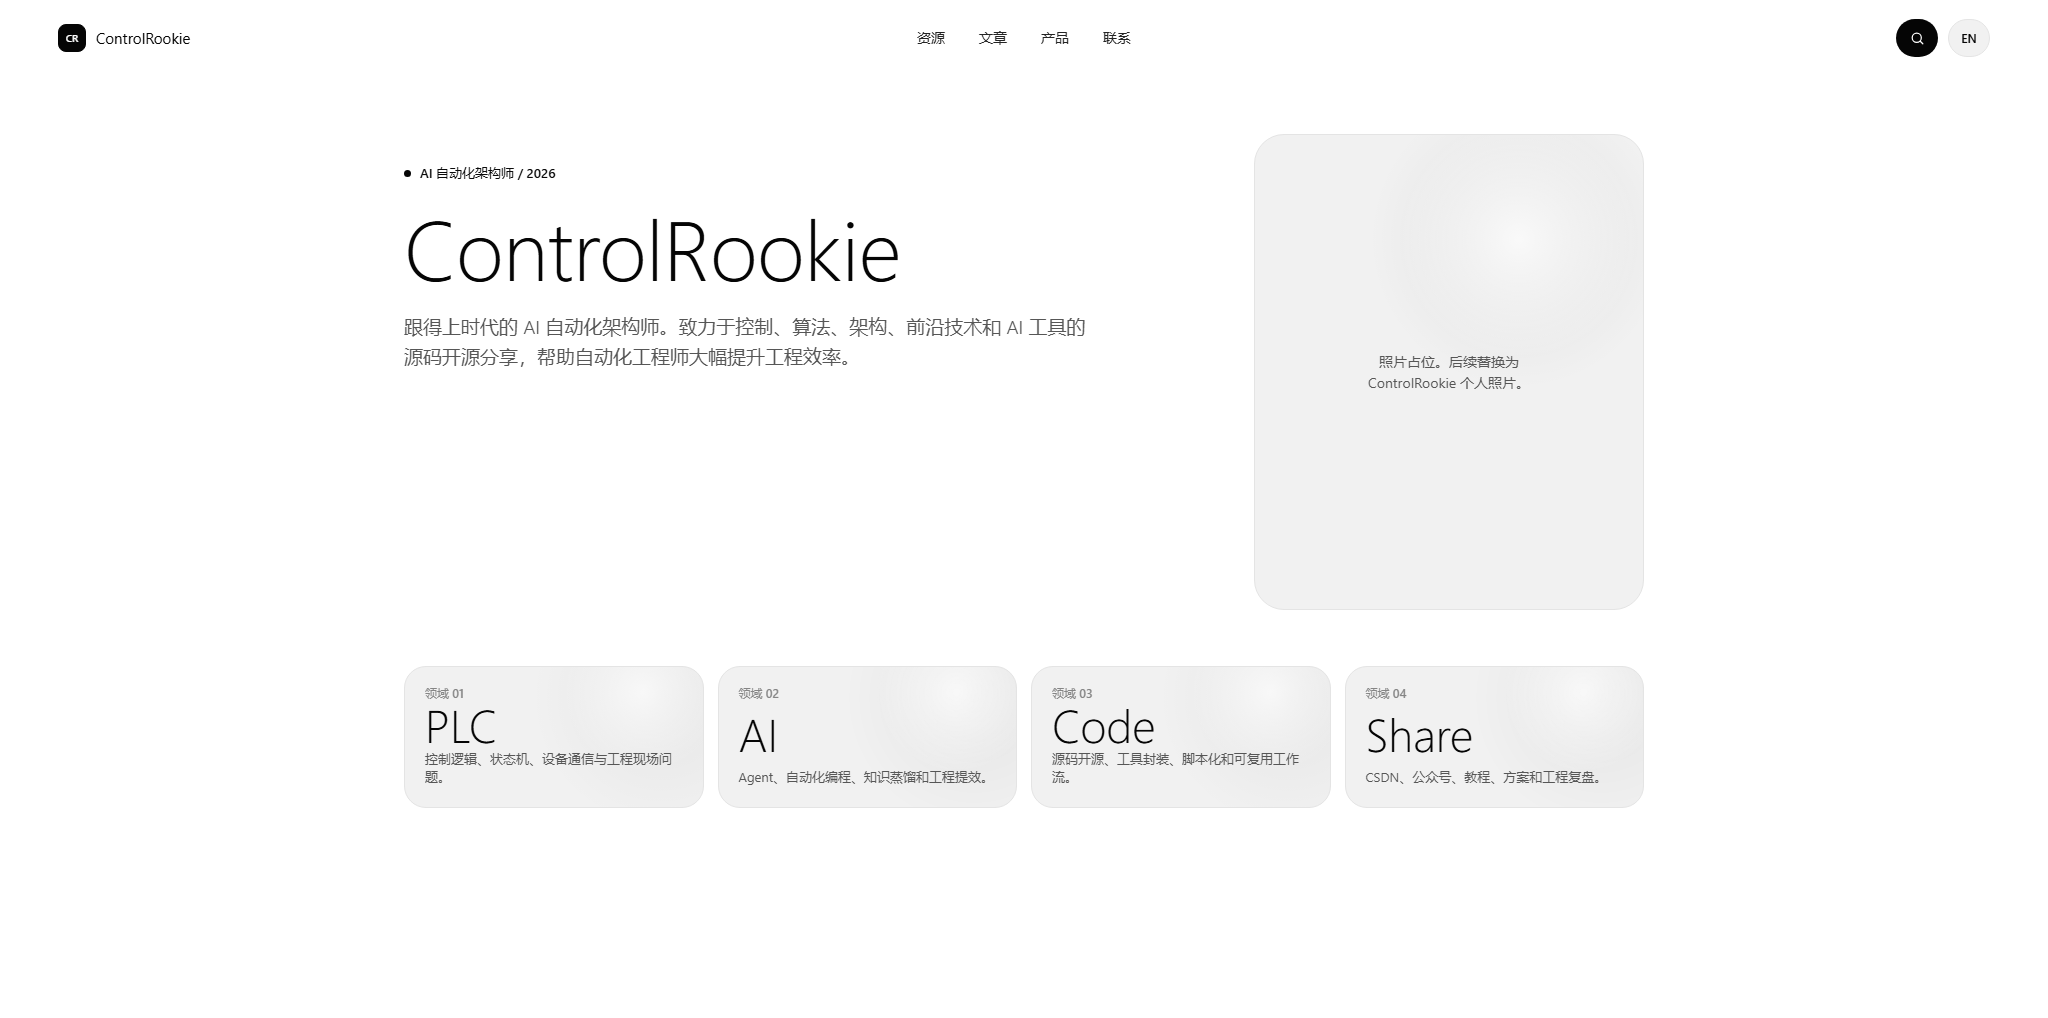
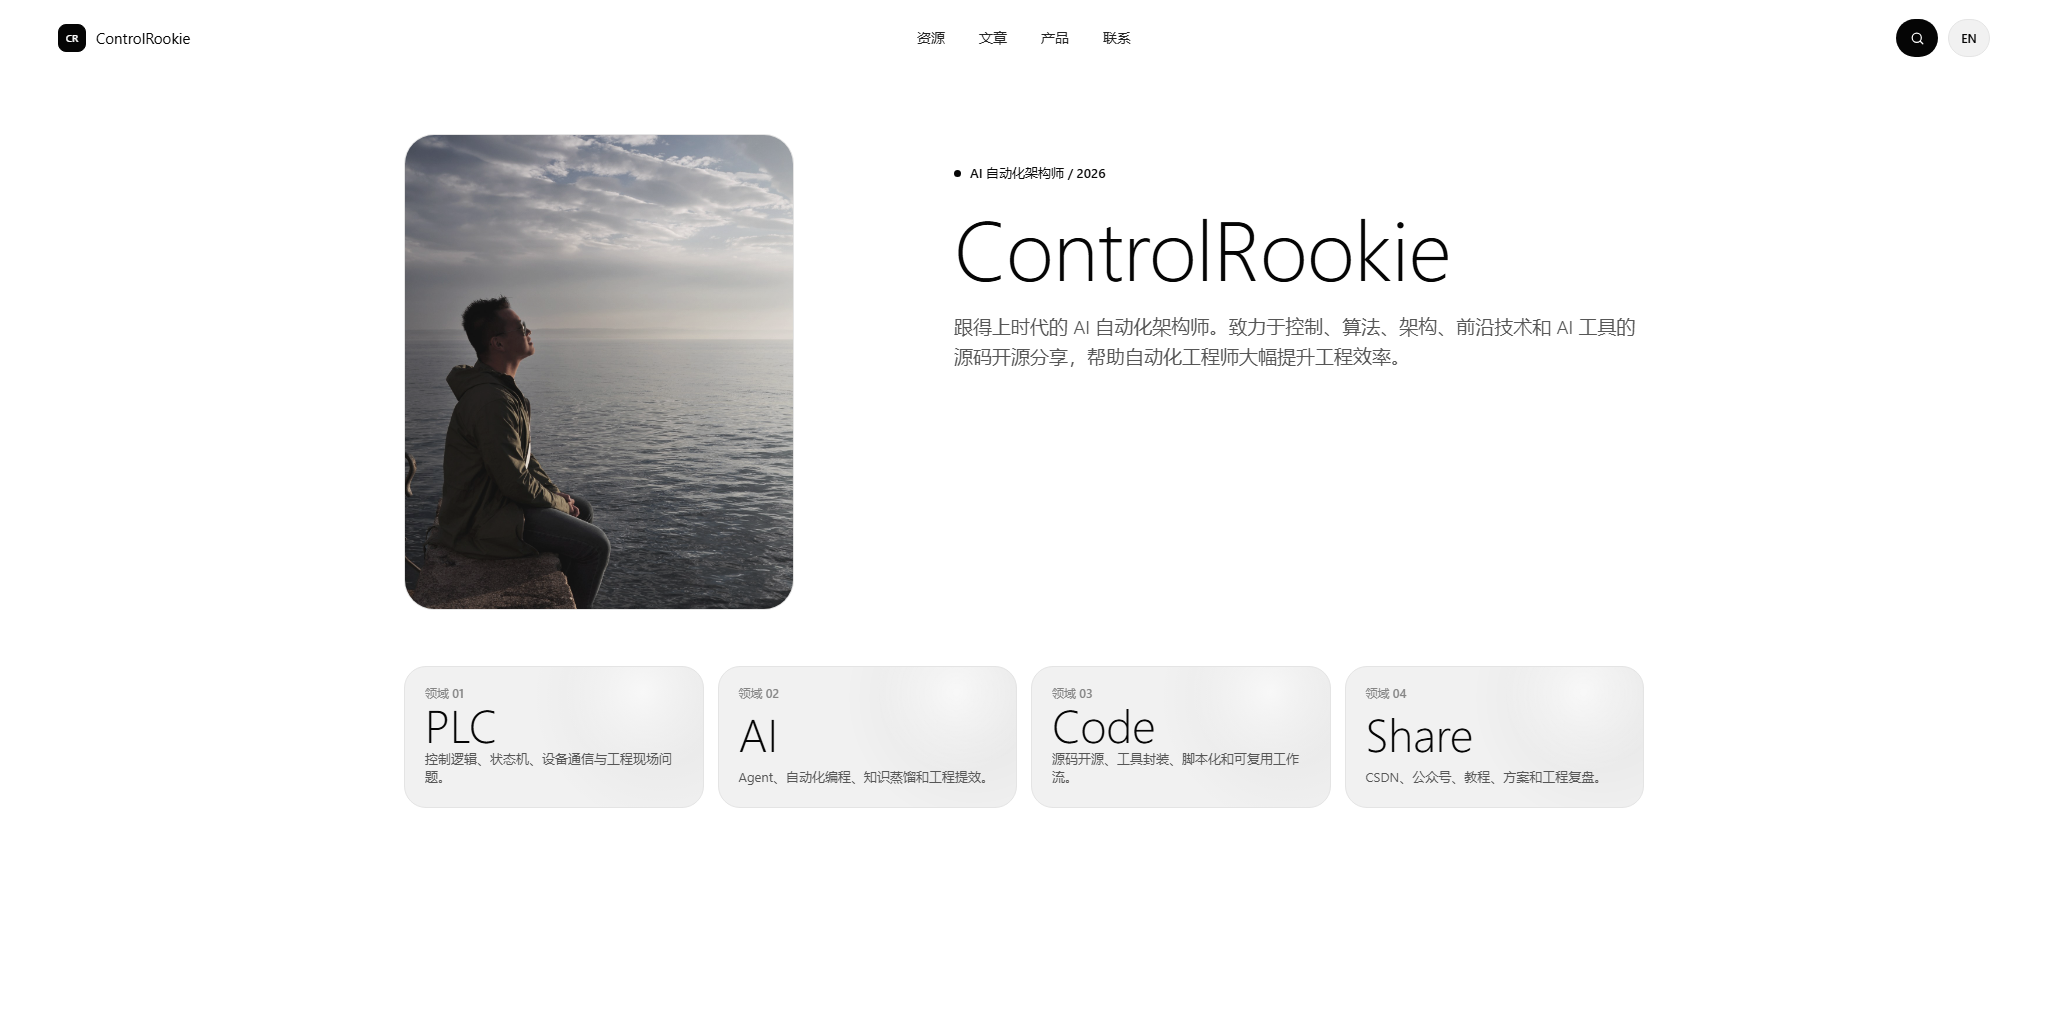
feat: 接入个人照片与联系二维码

Changed region(s): [[0.1875, 0.1218, 0.8125, 0.609], [0.4688, 0.2132, 0.7188, 0.2741], [0.4688, 0.1523, 0.5312, 0.1827]]

diff --git a/prototypes/homepage-open-design/index.html b/prototypes/homepage-open-design/index.html
@@ -295,7 +295,7 @@
       width: min(100%, 1240px);
       margin: 0 auto;
       display: grid;
-      grid-template-columns: minmax(0, 0.96fr) minmax(360px, 0.64fr);
+      grid-template-columns: minmax(360px, 0.64fr) minmax(0, 0.96fr);
       grid-template-rows: auto 1fr;
       gap: clamp(22px, 3.4vw, 54px);
       align-items: start;
@@ -303,6 +303,7 @@
 
     .hero-copy {
       padding-top: 32px;
+      justify-self: end;
     }
 
     .kicker {
@@ -349,11 +350,10 @@
     }
 
     .portrait-frame {
-      justify-self: end;
+      justify-self: start;
       width: min(100%, 390px);
       aspect-ratio: 0.82;
       display: grid;
-      place-items: center;
       overflow: hidden;
       border: 1px solid var(--line);
       border-radius: 30px;
@@ -364,20 +364,13 @@
       color: var(--muted);
     }
 
-    .portrait-placeholder {
+    .portrait-image {
       width: 100%;
       height: 100%;
-      display: grid;
-      place-items: center;
-      padding: 30px;
-      text-align: center;
-    }
-
-    .portrait-placeholder span {
-      max-width: 210px;
-      color: var(--muted);
-      font-size: 14px;
-      line-height: 1.5;
+      object-fit: cover;
+      object-position: 31% 50%;
+      filter: saturate(0.72) contrast(0.96) brightness(1.03);
+      mix-blend-mode: multiply;
     }
 
     .focus-strip {
@@ -484,6 +477,10 @@
 
     .product-grid {
       grid-template-columns: repeat(3, minmax(0, 1fr));
+    }
+
+    .article-grid-single {
+      grid-template-columns: minmax(0, 0.72fr);
     }
 
     .product-grid-single {
@@ -648,7 +645,7 @@
 
     .contact-shell {
       display: grid;
-      grid-template-columns: minmax(0, 0.92fr) minmax(0, 1.08fr);
+      grid-template-columns: minmax(280px, 0.56fr) minmax(0, 1.44fr);
       gap: 14px;
       align-items: stretch;
     }
@@ -664,8 +661,8 @@
     }
 
     .contact-lead {
-      min-height: 388px;
-      padding: clamp(28px, 4vw, 48px);
+      min-height: 454px;
+      padding: clamp(26px, 3.3vw, 40px);
       display: flex;
       flex-direction: column;
       justify-content: space-between;
@@ -674,9 +671,9 @@
     .contact-lead h2 {
       margin: 0;
       color: #050505;
-      font-size: clamp(42px, 5vw, 72px);
+      font-size: clamp(30px, 3.2vw, 48px);
       font-weight: 250;
-      line-height: 0.98;
+      line-height: 1.04;
       letter-spacing: 0;
       text-wrap: balance;
     }
@@ -696,7 +693,7 @@
     }
 
     .contact-card {
-      min-height: 187px;
+      min-height: 220px;
       padding: 24px;
       display: flex;
       flex-direction: column;
@@ -735,20 +732,14 @@
     }
 
     .qr-slot {
-      width: 92px;
+      width: min(100%, 168px);
       aspect-ratio: 1;
-      display: grid;
-      place-items: center;
       border: 1px solid var(--line-strong);
       border-radius: 18px;
-      background:
-        linear-gradient(90deg, rgba(0,0,0,0.08) 1px, transparent 1px),
-        linear-gradient(180deg, rgba(0,0,0,0.08) 1px, transparent 1px),
-        #fff;
-      background-size: 12px 12px;
-      color: var(--muted);
-      font-size: 12px;
-      font-weight: 520;
+      padding: 10px;
+      background: #fff;
+      object-fit: contain;
+      align-self: flex-start;
     }
 
     .footer {
@@ -802,6 +793,10 @@
       .portrait-frame {
         justify-self: center;
         width: min(100%, 360px);
+      }
+
+      .hero-copy {
+        justify-self: start;
       }
 
       .focus-strip,
@@ -874,6 +869,7 @@
         grid-template-columns: 1fr;
       }
 
+      .article-grid-single,
       .product-grid-single {
         grid-template-columns: 1fr;
       }
@@ -940,16 +936,14 @@
     <main id="top">
       <section class="hero" aria-label="ControlRookie introduction">
         <div class="hero-inner">
+          <div class="portrait-frame" aria-label="ControlRookie portrait placeholder">
+            <img class="portrait-image" src="../../public/assets/images/brand/controlrookie-portrait.jpg" alt="ControlRookie portrait">
+          </div>
+
           <div class="hero-copy">
             <p class="kicker" data-i18n="hero.kicker">AI 自动化架构师 / 2026</p>
             <h1>ControlRookie</h1>
             <p class="subtitle" data-i18n="hero.subtitle">跟得上时代的 AI 自动化架构师。致力于控制、算法、架构、前沿技术和 AI 工具的源码开源分享，帮助自动化工程师大幅提升工程效率。</p>
-          </div>
-
-          <div class="portrait-frame" aria-label="ControlRookie portrait placeholder">
-            <div class="portrait-placeholder">
-              <span data-i18n="hero.portrait">照片占位。后续替换为 ControlRookie 个人照片。</span>
-            </div>
           </div>
 
           <div class="focus-strip" aria-label="Core domains">
@@ -999,11 +993,8 @@
           <p class="eyebrow" id="articles-title" data-i18n="articles.title">文章</p>
           <p class="section-copy" data-i18n="articles.copy">CSDN 已发布完整 CODESYS MQTT 系列；官网长期建议做主站文章，CSDN 和公众号负责分发引流。</p>
         </div>
-        <div class="article-grid">
+        <div class="article-grid article-grid-single">
           <a class="info-card" href="https://blog.csdn.net/weixin_44442562/category_13163069.html" target="_blank" rel="noreferrer"><div><small>CSDN Series</small><h3 data-i18n="article.1.title">CODESYS MQTT 系列</h3><p data-i18n="article.1.copy">已发布服务器、客户端、Broker、主题通信和排障教程，先跳转 CSDN 分类页。</p></div><footer>01 / CSDN MQTT</footer></a>
-          <article class="info-card"><div><small>Official Site</small><h3 data-i18n="article.2.title">官网原创文章</h3><p data-i18n="article.2.copy">长期建议把完整文章发布在官网，沉淀 SEO、搜索和产品转化。</p></div><footer>02 / Future CMS</footer></article>
-          <article class="info-card"><div><small>Distribution</small><h3 data-i18n="article.3.title">CSDN 与公众号分发</h3><p data-i18n="article.3.copy">CSDN 和公众号保留摘要、系列导航和外链，引流回官网专题。</p></div><footer>03 / Traffic</footer></article>
-          <article class="info-card"><div><small>Affiliate</small><h3 data-i18n="article.4.title">分账链接策略</h3><p data-i18n="article.4.copy">分账链接适合工具、云服务、课程资源推荐，不建议作为技术文章主承载。</p></div><footer>04 / Revenue</footer></article>
         </div>
       </section>
 
@@ -1031,8 +1022,8 @@
             <p class="eyebrow">ControlRookie / AI Automation Architect</p>
           </div>
           <div class="contact-grid" aria-label="Contact channels">
-            <article class="contact-card qr-card"><small>WeChat</small><strong>PeaceAndBless</strong><span data-i18n="contact.wechat">个人微信，二维码素材待替换。</span><div class="qr-slot" aria-label="WeChat QR placeholder">QR</div></article>
-            <article class="contact-card qr-card"><small>Official Account</small><strong>ControlRookie</strong><span data-i18n="contact.official">微信公众号，二维码素材待替换。</span><div class="qr-slot" aria-label="Official account QR placeholder">QR</div></article>
+            <article class="contact-card qr-card"><small>WeChat</small><strong>PeaceAndBless</strong><span data-i18n="contact.wechat">个人微信，扫码添加好友。</span><img class="qr-slot" src="../../public/assets/images/contact/wechat-peaceandbless-qr.jpg" alt="PeaceAndBless WeChat QR code"></article>
+            <article class="contact-card qr-card"><small>Official Account</small><strong>ControlRookie</strong><span data-i18n="contact.official">微信公众号，扫码关注。</span><img class="qr-slot" src="../../public/assets/images/contact/wechat-official-account-controlrookie-qr.jpg" alt="ControlRookie official account QR code"></article>
             <a class="contact-card" href="mailto:[email redacted]"><small>Email</small><strong>[email redacted]</strong><span data-i18n="contact.email">合作咨询、工具试用和工程化协作。</span></a>
             <a class="contact-card" href="https://blog.csdn.net/weixin_44442562?type=blog" target="_blank" rel="noreferrer"><small>CSDN</small><strong>ControlRookie 技术博客</strong><span data-i18n="contact.csdn">文章、教程、工程复盘和源码实践。</span></a>
           </div>
@@ -1063,7 +1054,6 @@
         "search.placeholder": "搜索文章、资源、产品",
         "hero.kicker": "AI 自动化架构师 / 2026",
         "hero.subtitle": "跟得上时代的 AI 自动化架构师。致力于控制、算法、架构、前沿技术和 AI 工具的源码开源分享，帮助自动化工程师大幅提升工程效率。",
-        "hero.portrait": "照片占位。后续替换为 ControlRookie 个人照片。",
         "focus.1.kicker": "领域 01",
         "focus.1.copy": "控制逻辑、状态机、设备通信与工程现场问题。",
         "focus.2.kicker": "领域 02",
@@ -1099,15 +1089,9 @@
         "resource.8.title": "工程资料库",
         "resource.8.copy": "手册、笔记、复盘和关键技术路线图。",
         "articles.title": "文章",
-        "articles.copy": "CSDN 已发布完整 CODESYS MQTT 系列；官网长期建议做主站文章，CSDN 和公众号负责分发引流。",
+        "articles.copy": "当前只保留已发布的 CODESYS MQTT 系列教程入口，其他文章模块暂不展示。",
         "article.1.title": "CODESYS MQTT 系列",
         "article.1.copy": "已发布服务器、客户端、Broker、主题通信和排障教程，先跳转 CSDN 分类页。",
-        "article.2.title": "官网原创文章",
-        "article.2.copy": "长期建议把完整文章发布在官网，沉淀 SEO、搜索和产品转化。",
-        "article.3.title": "CSDN 与公众号分发",
-        "article.3.copy": "CSDN 和公众号保留摘要、系列导航和外链，引流回官网专题。",
-        "article.4.title": "分账链接策略",
-        "article.4.copy": "分账链接适合工具、云服务、课程资源推荐，不建议作为技术文章主承载。",
         "products.title": "产品",
         "products.copy": "当前只展示 codesys-llm-synchronizer，其他产品先不放，后续成熟后再进入这里。",
         "product.1.copy": "面向 CODESYS / SmartControl 工程的 LLM 同步与协作工具，用于工程镜像、代码上下文、规则和自动化工作流衔接。",
@@ -1115,8 +1099,8 @@
         "contact.copy": "微信、邮箱、CSDN 和公众号入口先完整呈现，二维码图片后续替换为已保存的正式素材。",
         "contact.heading": "聊聊工程效率。",
         "contact.lead": "文章合作、工具试用、工程咨询、AI 自动化方案，可以通过微信、邮箱、CSDN 或公众号联系。",
-        "contact.wechat": "个人微信，二维码素材待替换。",
-        "contact.official": "微信公众号，二维码素材待替换。",
+        "contact.wechat": "个人微信，扫码添加好友。",
+        "contact.official": "微信公众号，扫码关注。",
         "contact.email": "合作咨询、工具试用和工程化协作。",
         "contact.csdn": "文章、教程、工程复盘和源码实践。",
         "footer.copy": "面向自动化工程师的 AI 自动化架构。",
@@ -1130,7 +1114,6 @@
         "search.placeholder": "Search articles, resources, products",
         "hero.kicker": "AI Automation Architect / 2026",
         "hero.subtitle": "An AI automation architect keeping pace with the era. ControlRookie shares source code, control ideas, algorithms, architecture, frontier technology, and AI tools to help automation engineers improve engineering efficiency.",
-        "hero.portrait": "Portrait placeholder. Replace with the ControlRookie portrait later.",
         "focus.1.kicker": "Domain 01",
         "focus.1.copy": "Control logic, state machines, device communication, and field issues.",
         "focus.2.kicker": "Domain 02",
@@ -1166,15 +1149,9 @@
         "resource.8.title": "Engineering Library",
         "resource.8.copy": "Manuals, notes, reviews, and technical roadmaps.",
         "articles.title": "Articles",
-        "articles.copy": "A complete CODESYS MQTT series is already published on CSDN. Long term, the official site should host full articles while CSDN and WeChat distribute and drive traffic.",
+        "articles.copy": "Only the published CODESYS MQTT tutorial series is shown for now. Other article modules stay hidden.",
         "article.1.title": "CODESYS MQTT Series",
         "article.1.copy": "Published tutorials cover server, client, broker, topic communication, and troubleshooting. Link to the CSDN category first.",
-        "article.2.title": "Official Articles",
-        "article.2.copy": "Long term, publish full articles on the official site to build SEO, search, and product conversion.",
-        "article.3.title": "CSDN & WeChat Distribution",
-        "article.3.copy": "Use CSDN and WeChat for summaries, series navigation, and links back to official topics.",
-        "article.4.title": "Affiliate Strategy",
-        "article.4.copy": "Affiliate links fit tools, cloud services, courses, and resource recommendations, not the main article host.",
         "products.title": "Products",
         "products.copy": "Only codesys-llm-synchronizer is shown for now. Other products stay hidden until mature.",
         "product.1.copy": "An LLM synchronization and collaboration tool for CODESYS / SmartControl projects, connecting project mirrors, code context, rules, and automation workflows.",
@@ -1182,8 +1159,8 @@
         "contact.copy": "WeChat, email, CSDN, and official account entries are shown first. QR images will be replaced with saved official assets later.",
         "contact.heading": "Talk engineering efficiency.",
         "contact.lead": "For article collaboration, tool trials, engineering consulting, or AI automation solutions, contact me via WeChat, email, CSDN, or the official account.",
-        "contact.wechat": "Personal WeChat. QR asset pending replacement.",
-        "contact.official": "Official WeChat account. QR asset pending replacement.",
+        "contact.wechat": "Personal WeChat. Scan to add.",
+        "contact.official": "Official WeChat account. Scan to follow.",
         "contact.email": "Collaboration, tool trials, and engineering work.",
         "contact.csdn": "Articles, tutorials, engineering reviews, and source code practice.",
         "footer.copy": "AI automation architecture for automation engineers.",
@@ -1224,7 +1201,7 @@
         : searchIndex.slice(0, 5);
 
       searchPanel.innerHTML = matches.length
-        ? matches.map((item, index) => `<a class="search-result${index === 0 ? " active" : ""}" href="${item.href}"><strong>${item.title[currentLang]}</strong><span>${item.type[currentLang]} · ${item.text[currentLang]}</span></a>`).join("")
+        ? matches.map((item, index) => `<a class="search-result${index === 0 ? " active" : ""}" href="${item.href}"><strong>${item.title[currentLang]}</strong><span>${item.type[currentLang]} / ${item.text[currentLang]}</span></a>`).join("")
         : `<div class="search-empty">${translations[currentLang]["search.empty"]}</div>`;
       searchPanel.classList.add("visible");
     }

diff --git a/docs/requirements/联系与素材需求.md b/docs/requirements/联系与素材需求.md
@@ -14,14 +14,17 @@
 - 个人微信二维码：微信号 `PeaceAndBless`
 - 微信公众号二维码：公众号 `ControlRookie`
 
-当前对话图片尚未在项目目录中形成可引用的原始图片文件。后续收到或导出原图后，统一保存到：
+二维码素材已保存到：
 
 ```text
-public/assets/images/contact/wechat-peaceandbless-qr.png
-public/assets/images/contact/wechat-official-account-controlrookie-qr.png
+public/assets/images/contact/wechat-peaceandbless-qr.jpg
+public/assets/images/contact/wechat-peaceandbless-qr-full.jpg
+public/assets/images/contact/wechat-official-account-controlrookie-qr.jpg
 ```
 
-保存后需要替换 `prototypes/homepage-open-design/index.html` 中 Contact 区域的二维码占位。
+`prototypes/homepage-open-design/index.html` 已接入以上两张二维码。Contact 页面必须保持二维码足够大，不能被标题或说明区域压缩。
+
+说明：`wechat-peaceandbless-qr.jpg` 是用于网页展示的正方形裁剪版，`wechat-peaceandbless-qr-full.jpg` 保留原始完整截图。
 
 ## Logo 素材
 
@@ -32,4 +35,26 @@ public/assets/images/brand/controlrookie-logo.svg
 public/assets/images/brand/controlrookie-logo.png
 ```
 
-正式 Logo 到位后替换导航 `.brand-logo`。
+Logo 素材已保存到：
+
+```text
+public/assets/images/brand/controlrookie-logo.png
+```
+
+当前导航仍使用克制 `CR` 占位，正式前端工程阶段再评估是否替换为完整 Logo 图。
+
+## 首页照片素材
+
+原始照片：
+
+```text
+E:\07 自媒体\03 资料\DSC_0366.jpg
+```
+
+网页优化图已保存到：
+
+```text
+public/assets/images/brand/controlrookie-portrait.jpg
+```
+
+因为照片中人脸朝右，首页布局使用左侧照片、右侧介绍文案。照片已做轻微降饱和和对比度收敛，以适配 ForAI 黑白灰底座。

diff --git a/项目规划与TODO.md b/项目规划与TODO.md
@@ -82,7 +82,7 @@ controlrookie-website/
 - [ ] 替换首页照片占位为个人照片，并验证构图、裁切和加载。
 - [ ] 将代表工程资产按真实项目梳理为作品墙卡片。
 - [ ] 将资源入口拆成源代码、库文件、标准、模板、MQTT 资料、自动化脚本等类别。
-- [ ] 将文章入口优先围绕 CODESYS MQTT 系列、官网原创文章、CSDN/公众号分发、分账资源策略展开。
+- [ ] 文章入口当前只保留 CODESYS MQTT 系列；官网原创、CSDN/公众号分发和分账资源策略另行规划，不进入当前界面。
 - [ ] 产品入口当前只展示 `codesys-llm-synchronizer`，其他产品成熟后再加入。
 - [ ] 将联系入口替换为真实 CSDN、公众号、GitHub、邮箱或合作入口。
 
@@ -120,6 +120,10 @@ controlrookie-website/
 - [x] 增加中文/英文一键切换框架，中文导航改为中文。
 - [x] 将 Works 改为资源，调整资源、文章、产品、联系区内容。
 - [x] 记录微信、邮箱、CSDN、公众号和二维码素材保存需求。
+- [x] 接入个人照片、微信二维码、公众号二维码和 Logo 素材。
+- [x] 首页改为左侧照片、右侧介绍，适配照片朝向。
+- [x] Articles 仅保留 CODESYS MQTT 卡片，Products 仅保留 `codesys-llm-synchronizer`。
+- [x] 重排 Contact，让二维码保持清晰可见。
 - [ ] 进入真实内容梳理和正式前端工程方案选择。
 
 ## 风险与约束
@@ -137,3 +141,4 @@ controlrookie-website/
 - 2026-06-10：确定 Open Design 为主路线，原站 HTML 仅作视觉标尺，清理过程产物，只保留 Open Design 首页原型。
 - 2026-06-10：用户确认当前首页界面满意，固化 `prototypes/homepage-open-design/index.html` 为后续设计和正式前端工程视觉基线。
 - 2026-06-10：补充双语切换、中文导航、资源区、CODESYS MQTT 文章策略、`codesys-llm-synchronizer` 产品和真实联系信息需求。
+- 2026-06-10：接入个人照片、微信二维码、公众号二维码和 Logo 素材；调整首页照片朝向布局、文章/产品单卡策略和 Contact 二维码布局。

diff --git a/docs/requirements/网站需求说明.md b/docs/requirements/网站需求说明.md
@@ -14,6 +14,7 @@
 - 导航中保留 Contact，右上角不重复 Contact。
 - 右上角使用黑色底搜索控件：默认只显示搜索图标，选中时展开输入框，支持关键词匹配站内文章、资料和主题。
 - 首页首屏不使用球形主视觉，预留个人照片位置。
+- 首页照片使用 `public/assets/images/brand/controlrookie-portrait.jpg`，由于人脸朝右，桌面首屏采用左侧照片、右侧介绍。
 - 首页首屏必须在一屏内展示 PLC、AI、Code、Share 四个核心领域。
 - 不规划独立 Vision 和 Method 页面。
 - Articles 和 Products 必须使用清晰卡片或网格布局，避免左右大标题加横向分割线列表造成字体层级混乱。
@@ -23,8 +24,10 @@
 - 中文界面下，所有导航必须使用中文。
 - 左上角需要 ControlRookie Logo，正式 Logo 到位前允许用克制占位。
 - `Works` 改为 `资源`，用于源代码、库文件、标准、模板和工程资料。
-- 产品区当前只展示 `codesys-llm-synchronizer`，其他产品暂不展示。
+- 文章区当前只展示 CODESYS MQTT 系列一个卡片，其他暂未发布内容不展示。
+- 产品区当前只展示 `codesys-llm-synchronizer` 一个卡片，其他产品暂不展示。
 - 联系区必须包含微信 `PeaceAndBless`、邮箱 `[email redacted]`、CSDN 入口、微信公众号 `ControlRookie` 和二维码素材占位。
+- Contact 页面必须重新平衡布局，标题说明不能压缩二维码，二维码必须在页面上清晰可见。
 
 ## 文章策略
 